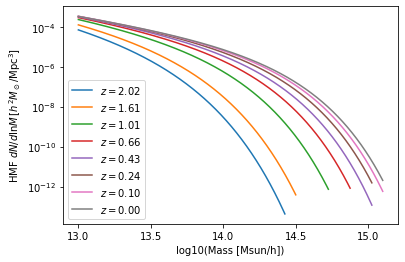
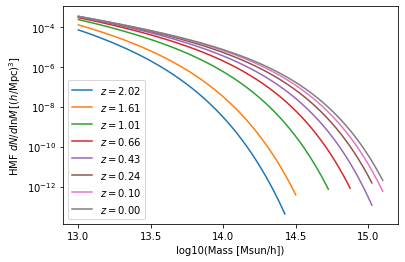
Important fix in docs

Changed region(s): [[0.0, 0.1832, 0.0593, 0.7023]]

diff --git a/MiraTitanUniverseHMFemulator/MiraTitanUniverseHMFemulator.py b/MiraTitanUniverseHMFemulator/MiraTitanUniverseHMFemulator.py
@@ -88,7 +88,7 @@ class Emulator:
         -------
         output : dictionary
             A dictionary containing all the emulator output. A `readme` key
-            describes the units: All HMFs are in [h^2 Msun/Mpc^3]. The output is
+            describes the units: The HMFs are dN/dlnM [(h/Mpc)^3]. The output is
             organized by redshift -- each dictionary key corresponds to one
             redshift. For each redshift, the output contains the following data:
 
@@ -96,8 +96,8 @@ class Emulator:
             The redshift of the emulator output.
 
         log10_M : array
-            Decadic logarithm (log10) of the masses (units [Msun/h]) for which
-            the HMF is emulated.
+            Decadic logarithm log10(mass [Msun/h]) for which the HMF is
+            emulated.
 
         HMF : array
             The HMF corresponding to the mean emulated parameters.
@@ -120,11 +120,11 @@ class Emulator:
         # Validate and normalize requested cosmology
         requested_cosmology_normed = self.__normalize_params(requested_cosmology)
 
-        output = {'Units': "log10_M is log10(Mass in [Msun/h]), HMFs are given in [h^2 Msun/Mpc^3]"}
+        output = {'Units': "log10_M is log10(Mass in [Msun/h]), HMFs are given in dN/dlnM [(h/Mpc)^3]"}
         log10_M_full = np.linspace(13, 16, 4001)
         for i in range(len(self.z_arr)):
             output[self.z_arr[i]] = {'redshift': self.z_arr[i],
-                                          'log10_M': log10_M_full[:len(self.__PCA_means[i])],}
+                                     'log10_M': log10_M_full[:len(self.__PCA_means[i])],}
         for i in range(len(self.z_arr)):
             # Call the GP
             wstar, wstar_covmat = self.__GPreg[i].predict(requested_cosmology_normed)

diff --git a/docs/tutorial.rst b/docs/tutorial.rst
@@ -1,4 +1,3 @@
-
 Tutorial
 ========
 
@@ -109,7 +108,7 @@ computed the HMF. There’s a ``Units`` key, too.
 
 .. parsed-literal::
 
-    log10_M is log10(Mass in [Msun/h]), HMFs are given in [h^2 Msun/Mpc^3]
+    log10_M is log10(Mass in [Msun/h]), HMFs are given in dN/dlnM [(h/Mpc)^3]
 
 
 So far, nothing too dramatic. Now let’s look into one of the redshift
@@ -125,7 +124,7 @@ outputs:
 
 .. parsed-literal::
 
-    Keys of res[0.0]:	 dict_keys(['redshift', 'log10_M', 'HMF', 'wstar', 'wstar_covmat', 'PC_weight'])
+    Keys of res[0.0]:	 dict_keys(['redshift', 'log10_M', 'HMF'])
     Redshift of res[0.0]:	 0.0
     Array of (log) masses:	 [13.      13.00075 13.0015  ... 15.09775 15.0985  15.09925]
     The emulated HMF	 [3.34203450e-04 3.33450191e-04 3.32698490e-04 ... 2.13904071e-12
@@ -141,7 +140,7 @@ redshifts.
     for z in HMFemu.z_arr:
         plt.semilogy(res[z]['log10_M'], res[z]['HMF'], label='$z=%.2f$'%z)
     plt.xlabel('log10(Mass [Msun/h])')
-    plt.ylabel('HMF $dN/d\lnM\,[h^2 M_\odot/\\mathrm{Mpc}^3]$')
+    plt.ylabel('HMF $dN/d\lnM\,[(h/\\mathrm{Mpc})^3]$')
     plt.legend()
 
 
@@ -149,7 +148,7 @@ redshifts.
 
 .. parsed-literal::
 
-    <matplotlib.legend.Legend at 0x10ac497b8>
+    <matplotlib.legend.Legend at 0x61a967780>
 
 
 
@@ -183,7 +182,7 @@ with for dark energy just for fun.
         plt.semilogy(res[z]['log10_M'], res[z]['HMF'], color=colors[i], label='$z=%.2f$ fiducial_cosmo'%z)
         plt.semilogy(res[z]['log10_M'], res_DE[z]['HMF'], color=colors[i], label='$z=%.2f$ DE_cosmo'%z, ls=':')
     plt.xlabel('log10(Mass [Msun/h])')
-    plt.ylabel('HMF $dN/d\lnM\,[h^2 M_\odot/\\mathrm{Mpc}^3]$')
+    plt.ylabel('HMF $dN/d\lnM\,[(h/\\mathrm{Mpc})^3]$')
     plt.legend()
 
 
@@ -191,7 +190,7 @@ with for dark energy just for fun.
 
 .. parsed-literal::
 
-    <matplotlib.legend.Legend at 0x11bcb0da0>
+    <matplotlib.legend.Legend at 0x61ab8c470>
 
 
 
